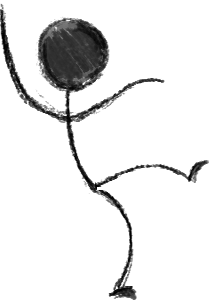
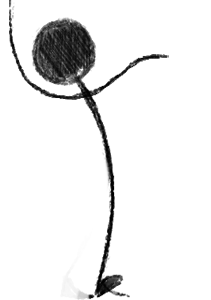
Jumbled with player variables
Made player more maneuverable in the level.

Changed region(s): [[0.0, 0.0, 0.9953, 1.0]]

diff --git a/META/META/META/Engine/Sprites/SpriteManager.cs b/META/META/META/Engine/Sprites/SpriteManager.cs
@@ -28,7 +28,7 @@ namespace META.Engine.Sprites
 			Sprites.Add(new Sprite(SpriteID.Black, GetTextures(content, "Blackness", 1), 60));
 			Sprites.Add(new Sprite(SpriteID.PlayerIdle, GetTextures(content, "Player/Idle/MainCharacter_Idle", 15), 15));
 			Sprites.Add(new Sprite(SpriteID.PlayerWalk, GetTextures(content, "Player/Run/MainCharacter_Run", 8), 15));
-			Sprites.Add(new Sprite(SpriteID.PlayerJump, GetTextures(content, "Player/Jump/MainCharacter_Jump", 6), 5, false));
+			Sprites.Add(new Sprite(SpriteID.PlayerJump, GetTextures(content, "Player/Jump/MainCharacter_Jump", 5), 10, false));
             Sprites.Add(new Sprite(SpriteID.PlayerJump, GetTextures(content, "AchievementBG", 1), 60));
 		}
 

diff --git a/META/META/META/GameWorld/Objects/Characters/Player.cs b/META/META/META/GameWorld/Objects/Characters/Player.cs
@@ -38,7 +38,7 @@ namespace META.GameWorld.Objects.Characters
 			sprite[(int)Animations.Jump] = new SpriteInstance(SpriteManager.GetSprite(SpriteID.PlayerJump));
 			_currentAnimation = (int)Animations.Idle;
 
-			jumpPower = 550;
+			jumpPower = 900;
 		}
 
 		public override void Update(GameTime gameTime)
